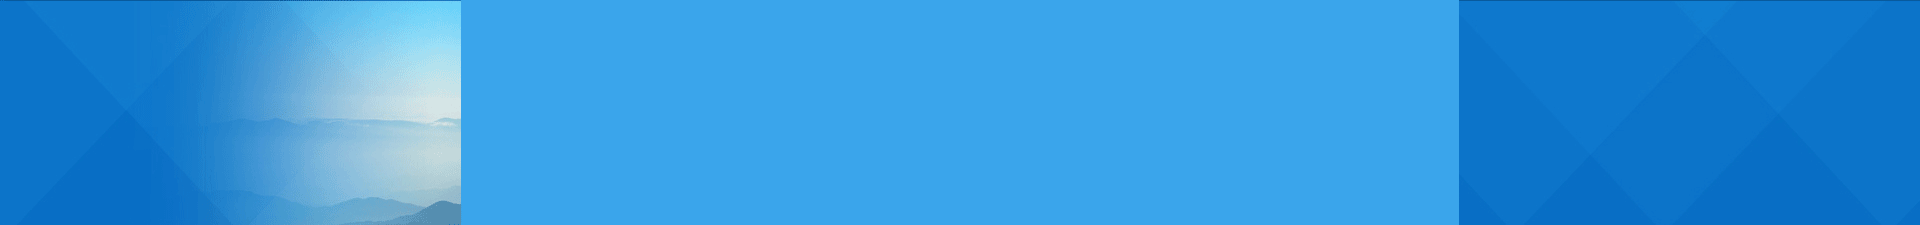
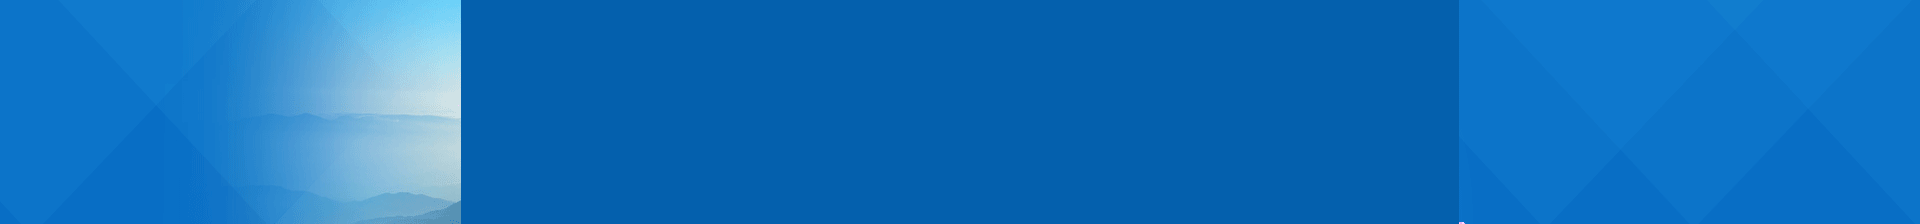
更新

diff --git a/city/quxian/css/channel_city.css b/city/quxian/css/channel_city.css
@@ -15,7 +15,7 @@ body {min-width:1000px;height:100%;background:#fff;font:12px/1.6em "Microsoft Ya
 a {color:#333;outline:none;text-decoration:none;}
 a:hover {color:#309de7;}
 /*globle*/
-h1, h2 {position: absolute; left: -9999px;}
+h2 {position: absolute; left: -9999px;}
 .wrapper {width:1000px;margin:15px auto 0;hidden;zoom:1;}
 .wrapper:after {content:"";display:table;clear:both}
 .main {float:left;width:660px;}
@@ -29,14 +29,15 @@ h1, h2 {position: absolute; left: -9999px;}
 /*header*/
 .header {background: url(../img/bg.png) no-repeat center top;}
 .header_con {width: 1000px; height: 225px; margin: 0 auto;}
-.sitenav {background:#1887d0;}
-.sitenav_list {width: 1000px; height:50px;background:#1887d0; margin: 0 auto;}
+h1 {float: left; display: inline; margin-right: 45px;}
+.sitenav {background:#0561ad;}
+.sitenav_list {width: 1000px; height:48px;background:#0561ad; margin: 0 auto; overflow: hidden;}
 .sitenav ul, .sitenav li {float:left;}
-.sitenav_list a {position:relative;display:block;width:68px;height:50px;font-size:17px;color:#fff;line-height:50px;text-align:center;}
-.sitenav_list .cur, .sitenav_list a:hover {background:#0266a8;text-decoration:none;}
-.topbar {background: #f6f6f6; color: #666;}
+.sitenav_list li a {position:relative;display:block;width:68px;height:48px;font-size:17px;color:#fff;line-height:48px;text-align:center;}
+.sitenav_list .cur, .sitenav_list li a:hover {background:#00549a;text-decoration:none;}
+.topbar {background: #000; color: #ccc;}
 .topbar_con {width: 1000px; height: 30px; margin: 0 auto; font-style: 14px; line-height: 30px;}
-.topbar_con a {margin-right: 10px; color: #666;}
+.topbar_con a {margin-right: 10px; color: #fff;}
 .topbar_con span {margin-left: 10px;}
 /*topbox*/
 .d1 {position:relative; float: left; width:660px;height:auto;overflow:hidden;background:#000000;}

diff --git a/city/quxian/nanchong.html b/city/quxian/nanchong.html
@@ -20,15 +20,10 @@
 		<a href="#">返回看看四川首页</a>|<span>切换县市：</span><a href="#">遂宁</a><a href="#">遂宁</a><a href="#">遂宁</a>
 	</div>
 </div><!-- topbar -->
-<header class="header">
-	<div class="header_con">
-		<h1>看看四川·看南充</h1>
-		<h2>南充区官方独家官网</h2>
-		<img src="img/bg_header_nanchong.jpg" />
-	</div>
-</header><!-- header -->
+
 <div class="sitenav">
 	<nav class="sitenav_list">
+		<h1><a href="#"><img src="img/logo_nanchong.png"></a></h1>
 		<ul>
 			<li><a href="#" class="cur">首页</a></li>
 			<li><a href="#">城事</a></li>
@@ -43,6 +38,13 @@
 		</ul>
 	</nav>                                                                                     
 </div><!-- sitenav -->
+
+<header class="header">
+	<div class="header_con">
+		<h2>南充区官方独家官网</h2>
+		<img src="img/bg_header_nanchong.jpg" />
+	</div>
+</header><!-- header -->
 
 <section class="wrapper topbox">
 	<div id="fade_focus" class="d1">
@@ -97,7 +99,7 @@
 		</div><!-- box -->
 		<div class="W320_R">
 			<div class="box box_typeC">
-				<div class="box_tt"><h4>民生关注</h4></div>
+				<div class="box_tt"><h4>民生</h4></div>
 				<ul class="imgLlist imgLlist_typeA">
 					<li>
 						<a href="#" title="" class="pic"><img src="http://placehold.it/150x85" alt=""></a>
@@ -112,7 +114,7 @@
 				</ul>
 			</div><!--box 热销 END-->
 			<div class="box box_typeC box_col2_b">
-				<div class="box_tt"><h4>推荐</h4></div>
+				<div class="box_tt"><h4>关注</h4></div>
 				<ul class="imgLlist imgLlist_typeA">
 					<li>
 						<a href="#" title="" class="pic"><img src="http://placehold.it/150x85" alt=""></a>

diff --git a/city/quxian/guangan.html b/city/quxian/guangan.html
@@ -17,15 +17,10 @@
 		<a href="#">返回看看四川首页</a>|<span>切换县市：</span><a href="#">遂宁</a><a href="#">遂宁</a><a href="#">遂宁</a>
 	</div>
 </div><!-- topbar -->
-<header class="header">
-	<div class="header_con">
-		<h1>看看四川·看广安</h1>
-		<h2>广安区官方独家官网</h2>
-		<img src="img/bg_header_guangan.jpg" />
-	</div>
-</header><!-- header -->
+
 <div class="sitenav">
 	<nav class="sitenav_list">
+		<h1><a href="#"><img src="img/logo_guangan.png"></a></h1>
 		<ul>
 			<li><a href="#" class="cur">首页</a></li>
 			<li><a href="#">城事</a></li>
@@ -40,6 +35,13 @@
 		</ul>
 	</nav>                                                                                     
 </div><!-- sitenav -->
+
+<header class="header">
+	<div class="header_con">
+		<h2>广安区官方独家官网</h2>
+		<img src="img/bg_header_guangan.jpg" />
+	</div>
+</header><!-- header -->
 
 <section class="wrapper topbox">
 	<div id="fade_focus" class="d1">
@@ -94,7 +96,7 @@
 		</div><!-- box -->
 		<div class="W320_R">
 			<div class="box box_typeC">
-				<div class="box_tt"><h4>民生关注</h4></div>
+				<div class="box_tt"><h4>民生</h4></div>
 				<ul class="imgLlist imgLlist_typeA">
 					<li>
 						<a href="#" title="" class="pic"><img src="http://placehold.it/150x85" alt=""></a>
@@ -109,7 +111,7 @@
 				</ul>
 			</div><!--box 热销 END-->
 			<div class="box box_typeC box_col2_b">
-				<div class="box_tt"><h4>推荐</h4></div>
+				<div class="box_tt"><h4>关注</h4></div>
 				<ul class="imgLlist imgLlist_typeA">
 					<li>
 						<a href="#" title="" class="pic"><img src="http://placehold.it/150x85" alt=""></a>

diff --git a/city/quxian/suining.html b/city/quxian/suining.html
@@ -20,15 +20,10 @@
 		<a href="#">返回看看四川首页</a>|<span>切换县市：</span><a href="#">遂宁</a><a href="#">遂宁</a><a href="#">遂宁</a>
 	</div>
 </div><!-- topbar -->
-<header class="header">
-	<div class="header_con">
-		<h1>看看四川·看遂宁</h1>
-		<h2>遂宁区官方独家官网</h2>
-		<img src="img/bg_header_suining.jpg" />
-	</div>
-</header><!-- header -->
+
 <div class="sitenav">
 	<nav class="sitenav_list">
+		<h1><a href="#"><img src="img/logo_suining.png"></a></h1>
 		<ul>
 			<li><a href="#" class="cur">首页</a></li>
 			<li><a href="#">城事</a></li>
@@ -43,6 +38,13 @@
 		</ul>
 	</nav>                                                                                     
 </div><!-- sitenav -->
+
+<header class="header">
+	<div class="header_con">
+		<h2>遂宁区官方独家官网</h2>
+		<img src="img/bg_header_suining.jpg" />
+	</div>
+</header><!-- header -->
 
 <section class="wrapper topbox">
 	<div id="fade_focus" class="d1">
@@ -97,7 +99,7 @@
 		</div><!-- box -->
 		<div class="W320_R">
 			<div class="box box_typeC">
-				<div class="box_tt"><h4>民生关注</h4></div>
+				<div class="box_tt"><h4>民生</h4></div>
 				<ul class="imgLlist imgLlist_typeA">
 					<li>
 						<a href="#" title="" class="pic"><img src="http://placehold.it/150x85" alt=""></a>
@@ -112,7 +114,7 @@
 				</ul>
 			</div><!--box 热销 END-->
 			<div class="box box_typeC box_col2_b">
-				<div class="box_tt"><h4>推荐</h4></div>
+				<div class="box_tt"><h4>关注</h4></div>
 				<ul class="imgLlist imgLlist_typeA">
 					<li>
 						<a href="#" title="" class="pic"><img src="http://placehold.it/150x85" alt=""></a>

diff --git a/channel/channel.html b/channel/channel.html
@@ -162,6 +162,8 @@
 
 <section class="wrapper">
 	<div class="main">
+		<div class="fresh" style="display:none;" id="hasNewsUpate"><i class="ico ico_fresh"></i>有新的新闻,<a href="javascript:;">刷新看看</a></div>
+		<div class="loader"  id="loading"><img src="http://misc.kankancity.com/www/img/loading.gif" alt="加载中..."  /></div>
 		<div class="newslist">
 			<div class="newslist_div newslist_div_first">
 				<div class="newslist_con">
@@ -271,7 +273,7 @@
 			</div>
 		</div><!-- newslist -->
 	</div><!-- main -->
-	<aisde class="side">
+	<aside class="side">
 		<div class="box box_side box_side_marginB">
 			<div class="box_tt"><h3>今日推荐</h3></div>
 			<div class="imgtxt imgtxt_125x65"><a href="#" class="pic"><img src="http://placehold.it/125x65"></a><div><a href="#" class="title">2014美国地理杂志2014美国地理杂志</a></div></div>
@@ -297,7 +299,7 @@
 			</ul>
 			<div class="imgtxt imgtxt_marginT"><a href="#" class="pic"><img src="http://placehold.it/320x106"></a><div><a href="#" class="title">2014美国地理杂志</a>我爱看大片</div></div>
 		</div><!-- 看看出品 -->
-	</aisde><!-- side -->
+	</aside><!-- side -->
 </section><!-- wrapper -->
 
 <footer class="footer">

diff --git a/channel/css/channel.css b/channel/css/channel.css
@@ -198,3 +198,9 @@ h3 .ico {position:static;float:left;margin-right:10px;}
 .newslist_more:hover .ico_more {background-position:-128px -47px;}
 /*other*/
 .imgtxt_marginT {margin-top: 15px;}
+
+.fresh {position:relative;padding-left:25px;font-size:13px;line-height:20px;}
+.fresh strong, .fresh a {color:#e40000;}
+.fresh strong {font-family:"Arial";}
+.loader {height:32px;margin:20px 0;text-align:center;}
+.ico_fresh {left:-0;top:0;width:20px;height:20px;background-position:-63px -41px;}
